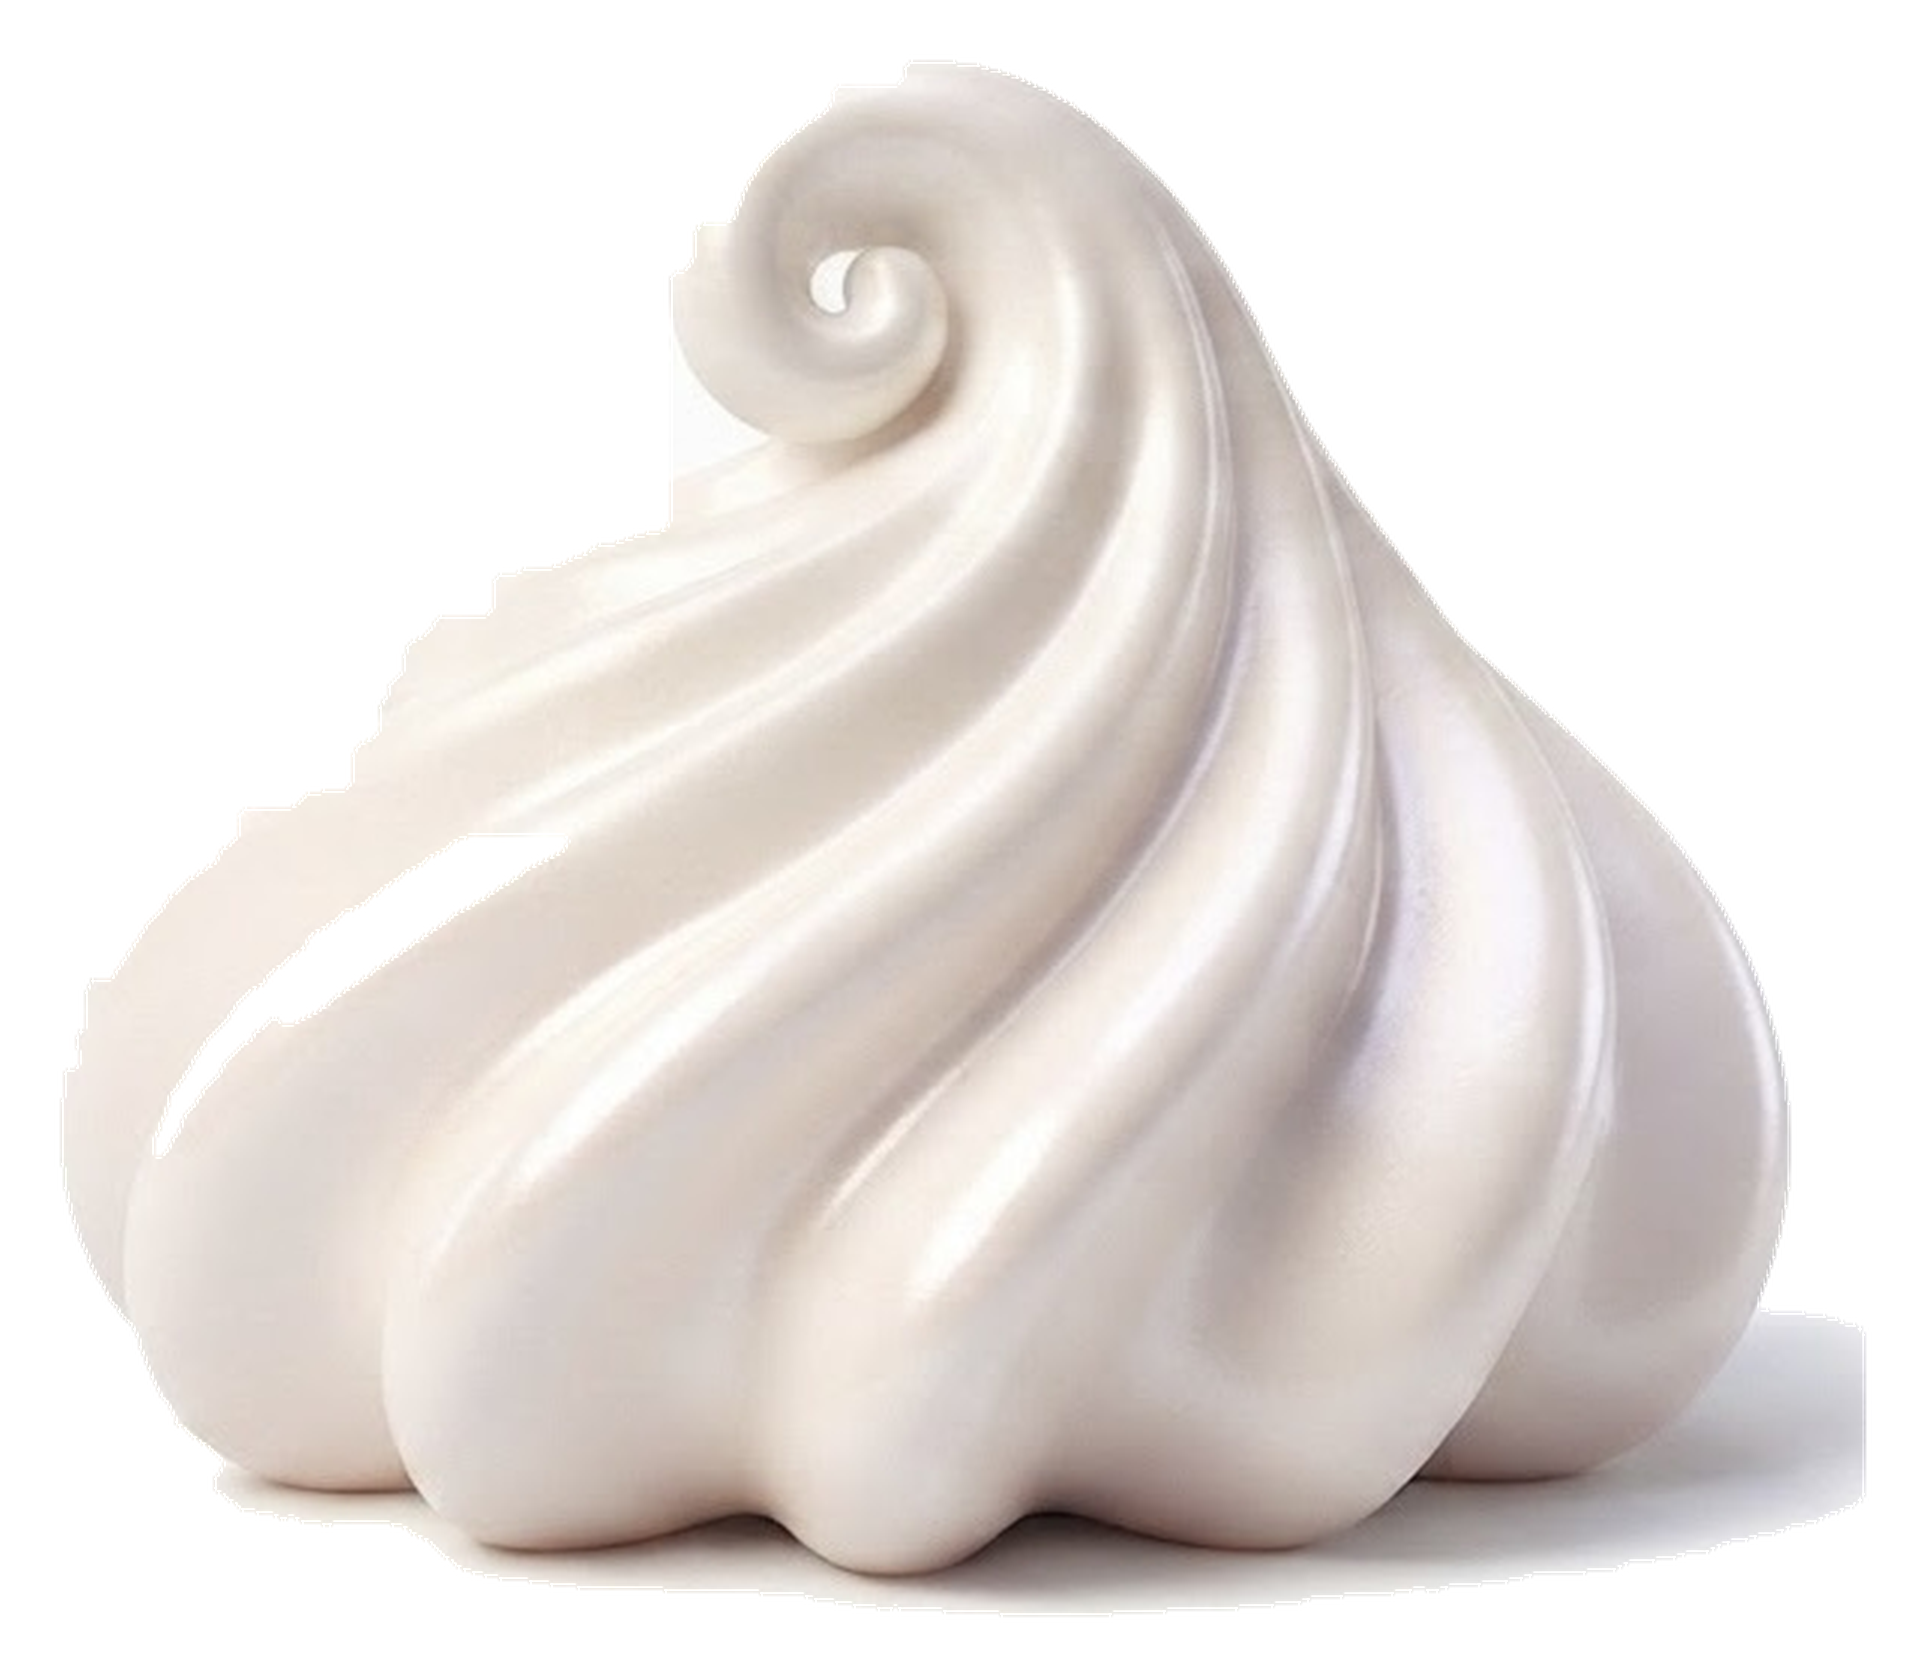
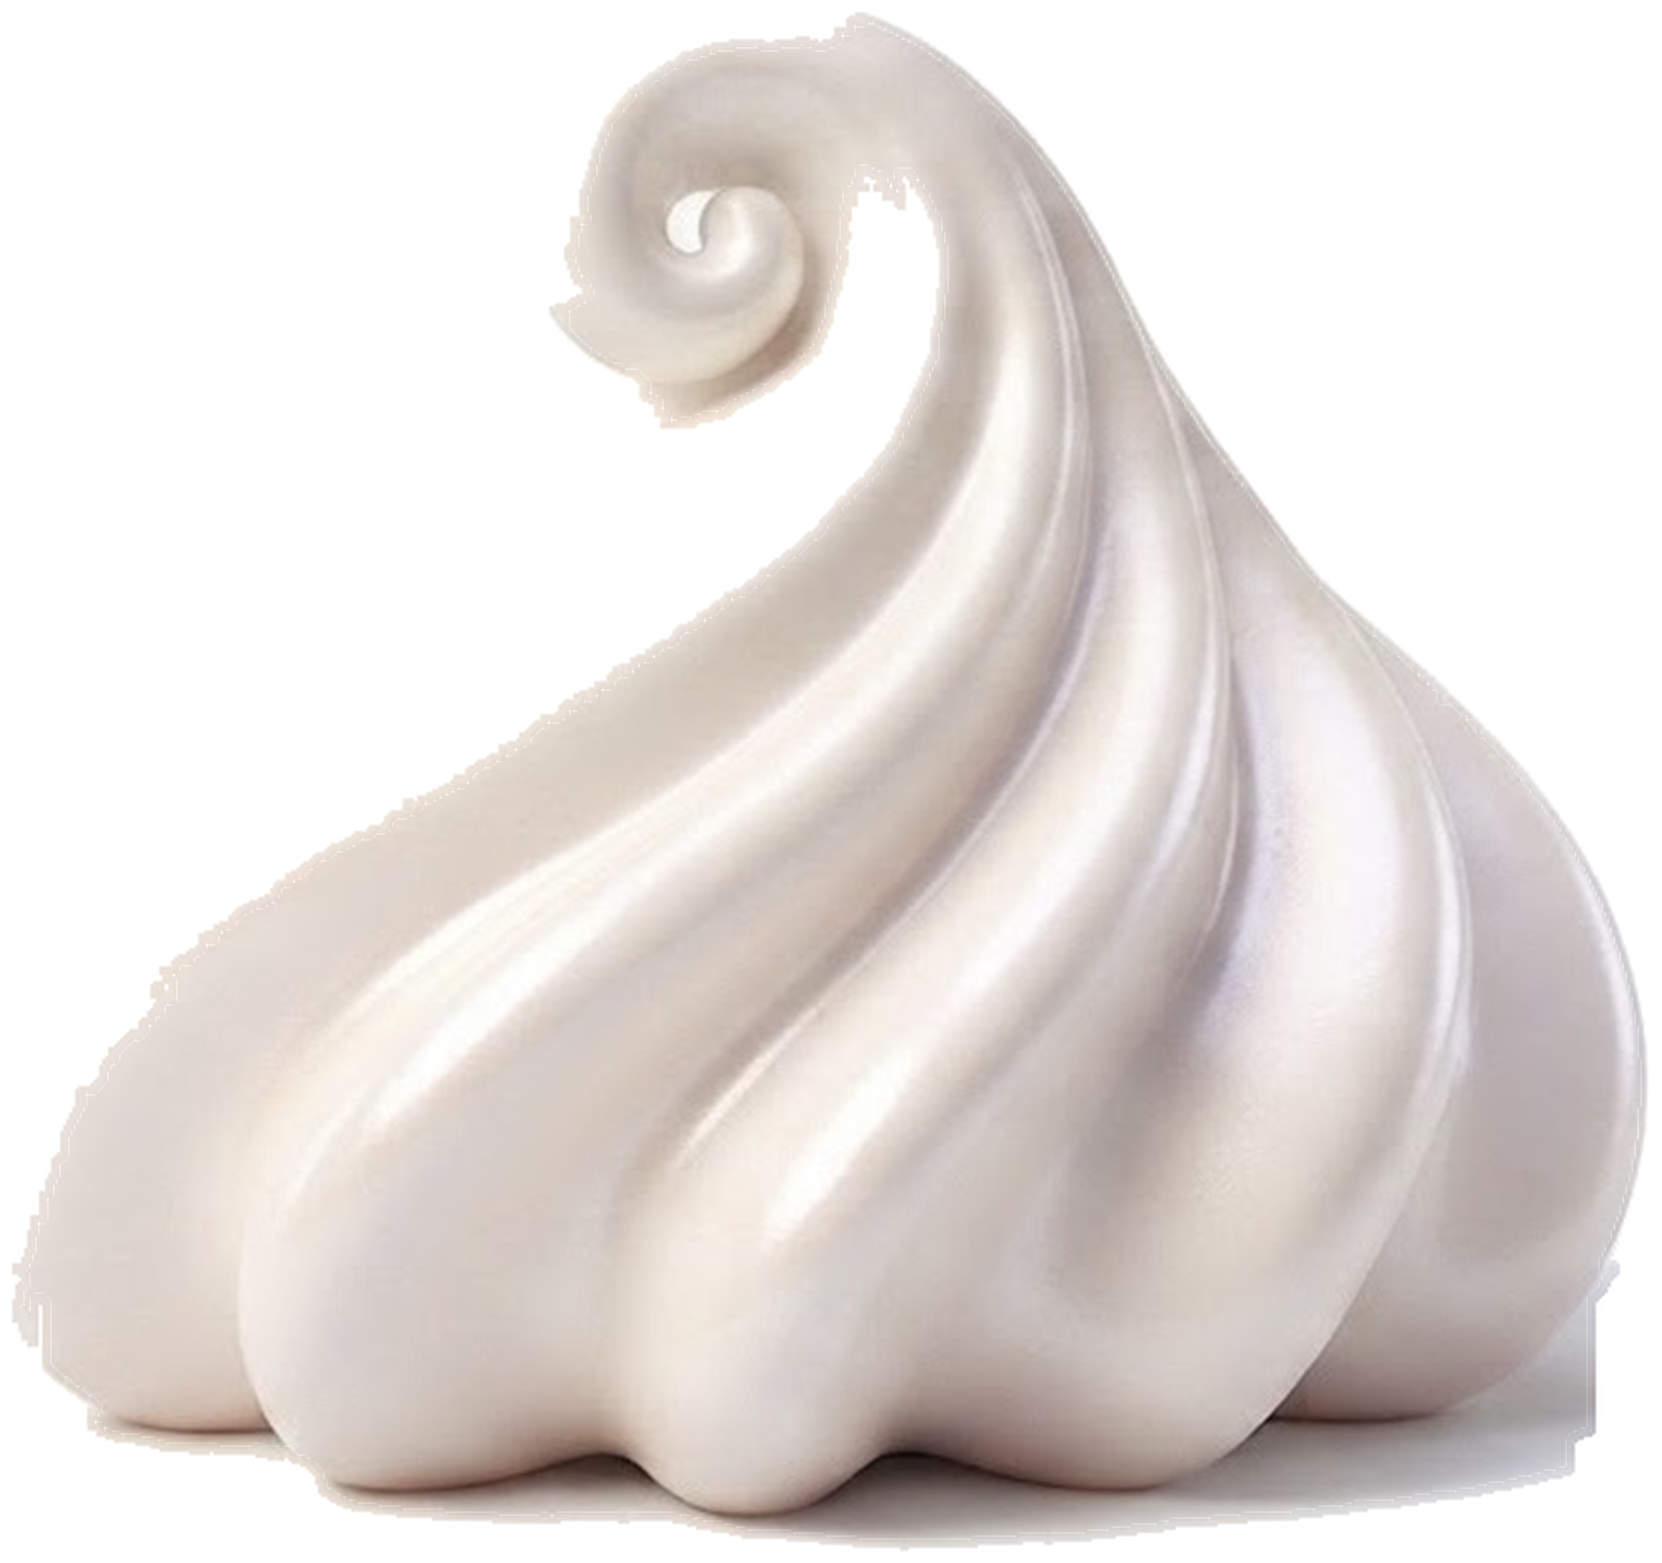
Fix chantilly shadow/edges and redesign vitrine as translucent glass
Creator review (2 issues on the previously sent renders):

- Chantilly: shadow was still visible and edges were jagged. The prior
  texture-trace fix worked almost everywhere but was weakest on the
  lower-right flank, letting a thin shadow sliver through, and per-column
  noise in that trace notched the edge. Rebuilt the base-region cutoff by
  combining a border-connected background flood fill (clean on its own
  almost everywhere) with the texture trace applied only where the flood
  fill's own shape needs clipping, median-smoothed across columns so
  isolated readings can't create notches.
- Vitrine en verre: creator wants a genuinely glassy look, not a solid
  frame -- reduced to a thin outline traced from the real photo edge plus
  the one real specular highlight from the source photo, both translucent
  (~40-65% opacity), with a very large gaussian falloff on the inner
  boundary instead of a hard edge, so it reads as glass over whatever's
  composited underneath rather than an opaque ring.

Claude-Session: https://claude.ai/code/session_01QJhmBXxG8bP3KG6H3AZ1rh

diff --git a/mobile/README.md b/mobile/README.md
@@ -169,31 +169,48 @@ vertical-stripes→column-clear and horizontal-stripes→row-clear per the
 common match-3 convention (matching this to the sprite most people expect);
 flag it if the creator intended the opposite.
 
-**Two corrections from the first pass, per creator review:**
+**Corrections from creator review, across multiple passes:**
 
-- **Vitrine en verre**: the source photo shows a donut placed inside the
-  glass case as an *example* of "an element enclosed in glass" — it's not
-  meant to be baked into the obstacle asset itself, since in-game any
-  element can be the one trapped inside. `obstacle-vitrine-verre.png` now
-  contains only the glass frame, with the donut's silhouette (and a
-  generous margin around it) cut out to full transparency, so it can be
-  composited over whichever element the level places underneath.
-- **Chantilly**: the source photo's soft drop shadow was being kept as if
-  it were part of the object. This one was genuinely hard — the shadow
-  blends continuously into the cream's own ambient-occlusion shading with
-  no clean color boundary between them (verified: no distance-from-background
-  threshold, at any value, cleanly separates the two, since the shadow's
-  density right at the contact point matches or exceeds the brightness of
-  real object surface elsewhere). A first attempt worked around this by
-  tapering the reliable upper silhouette down to close off the base without
+- **Vitrine en verre** — pass 1: the source photo shows a donut placed
+  inside the glass case as an *example* of "an element enclosed in glass,"
+  not meant to be baked into the obstacle asset itself, since in-game any
+  element can be the one trapped inside; fixed by cutting the donut's
+  silhouette out to full transparency, keeping the rest of the glass frame
+  solid. Pass 2 (creator wanted a genuinely glassy look instead of a solid
+  frame): `obstacle-vitrine-verre.png` is now just a thin outline tracing
+  the case's true outer silhouette (from the real photo edge, not an
+  invented line) plus the one real specular highlight streak from the
+  source photo's top-left corner — every other original "solid glass"
+  pixel, plus the whole interior, is transparent. The boundary between the
+  thin frame and the transparent interior is a very large gaussian falloff
+  (not a hard edge), and the frame itself sits at ~40% opacity so it reads
+  as translucent glass over whatever element/background is composited
+  underneath, rather than as an opaque ring.
+- **Chantilly** — pass 1: the source photo's soft drop shadow was being
+  kept as if it were part of the object. This one was genuinely hard — the
+  shadow blends continuously into the cream's own ambient-occlusion shading
+  with no clean color boundary between them (no distance-from-background
+  threshold, at any value, cleanly separates the two). A first attempt
+  tapered the reliable upper silhouette down to close off the base without
   reading the ambiguous pixels at all — technically shadow-free, but the
-  fabricated base didn't match the real photo and looked wrong. Fixed
-  properly using a different, real signal instead of color: the cream's
-  surface has visible fold/crease texture (local pixel variance) even where
-  pale, while the shadow is a smooth, textureless gradient. Tracing the
-  lowest row of genuine texture in each column recovers the object's actual
-  scalloped base contour from the real image data, rather than inventing
-  it — the current cutout is a true trace, not a reconstruction.
+  fabricated base didn't match the real photo. Pass 2 fixed the base
+  properly with a real signal instead of color: the cream's surface has
+  visible fold/crease texture (local pixel variance) even where pale, while
+  the shadow is a smooth, textureless gradient; tracing the lowest row of
+  genuine texture per column recovers the true scalloped base contour from
+  real image data instead of inventing it. Pass 3 (creator: shadow still
+  visible, edges dirty): the pass-2 texture trace, on its own, still let a
+  thin sliver of shadow through in the one region where the fold texture
+  signal is weakest (the lower-right flank), and per-column noise in that
+  trace produced small jagged notches along the edge. Fixed by combining
+  three signals instead of one -- a border-connected flood fill from the
+  background (correct almost everywhere except the shadow "shelf" it
+  also pulls in), clipped by the texture trace specifically in the base
+  region only (leaving the flood fill's own clean silhouette untouched on
+  the sides/top, where there's no shadow to begin with) -- with the texture
+  cutoff median-smoothed across columns so isolated noisy readings can't
+  notch the edge. The visible shadow patch is gone and the base now follows
+  the real scalloped fold line.
 
 ## Accounts (`01-setup-projet-et-architecture.md`)
 
